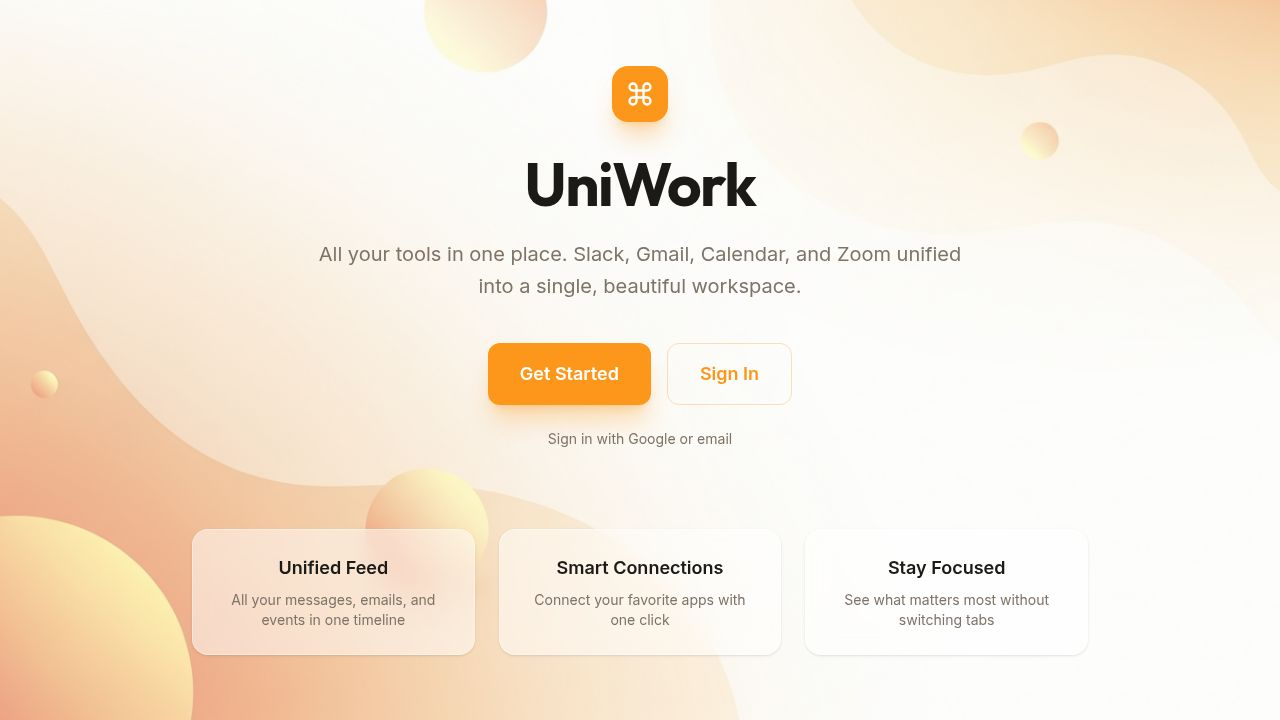
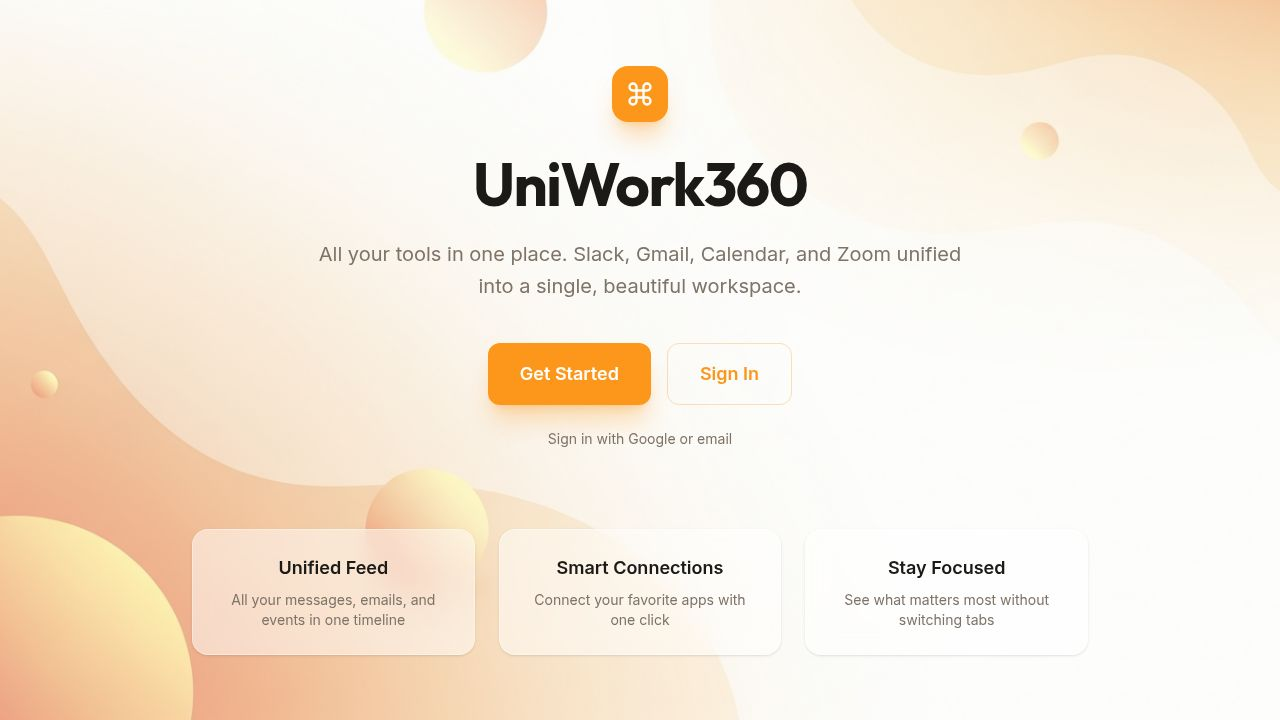
Update application name to UniWork360 and add email/Slack archiving feature
Rename application from UniWork to UniWork360 across client and documentation files. Add new PostgreSQL tables for archiving emails and Slack messages.

Replit-Commit-Author: Agent
Replit-Commit-Session-Id: 6fd7ff5d-99b1-4564-bddb-28053ccfea09
Replit-Commit-Checkpoint-Type: intermediate_checkpoint
Replit-Commit-Event-Id: 678924c1-f928-4d4b-99e3-ad5c29947d1a
Replit-Commit-Screenshot-Url: https://storage.googleapis.com/screenshot-production-us-central1/7e54089f-4964-4385-8b93-d112fce4aafd/6fd7ff5d-99b1-4564-bddb-28053ccfea09/BOdc3UP
Replit-Helium-Checkpoint-Created: true

Changed region(s): [[0.375, 0.2139, 0.6562, 0.3056]]

diff --git a/client/src/pages/settings.tsx b/client/src/pages/settings.tsx
@@ -717,7 +717,7 @@ export default function Settings() {
               (v) => handlePreferenceChange("notifyAsana", v),
               "toggle-notify-asana"
             )}
-            {renderToggle(MessageCircle, "UniWork Chat", "Direct messages from teammates", 
+            {renderToggle(MessageCircle, "UniWork360 Chat", "Direct messages from teammates", 
               preferences?.notifyChat ?? true, 
               (v) => handlePreferenceChange("notifyChat", v),
               "toggle-notify-chat"
@@ -728,7 +728,7 @@ export default function Settings() {
             <h3 className="text-lg font-semibold mb-2">Delivery Method</h3>
             <p className="text-sm text-muted-foreground mb-4">How do you want to receive notifications?</p>
             
-            {renderToggle(Bell, "In-App Notifications", "Show alerts within UniWork", 
+            {renderToggle(Bell, "In-App Notifications", "Show alerts within UniWork360", 
               preferences?.notifyInApp ?? true, 
               (v) => handlePreferenceChange("notifyInApp", v),
               "toggle-notify-inapp"
@@ -859,7 +859,7 @@ export default function Settings() {
                   </div>
                   <div>
                     <p className="font-medium text-foreground">Show Online Status</p>
-                    <p className="text-sm text-muted-foreground">Others can see when you're active in UniWork Chat</p>
+                    <p className="text-sm text-muted-foreground">Others can see when you're active in UniWork360 Chat</p>
                   </div>
                 </div>
                 <Switch
@@ -874,7 +874,7 @@ export default function Settings() {
             <div className="glass-card p-6 rounded-2xl">
               <h3 className="text-lg font-semibold mb-2">Connected Services</h3>
               <p className="text-sm text-muted-foreground mb-4">
-                Services you've connected to UniWork. You can manage connections on the Connect page.
+                Services you've connected to UniWork360. You can manage connections on the Connect page.
               </p>
               
               {connectedServices.length === 0 ? (
@@ -917,7 +917,7 @@ export default function Settings() {
 
             <div className="glass-card p-6 rounded-2xl">
               <h3 className="text-lg font-semibold mb-2">Your Data</h3>
-              <p className="text-sm text-muted-foreground mb-4">Download or delete your data from UniWork.</p>
+              <p className="text-sm text-muted-foreground mb-4">Download or delete your data from UniWork360.</p>
               
               <div className="space-y-3">
                 <Button 
@@ -987,7 +987,7 @@ export default function Settings() {
       {renderBackButton()}
       <div className="mb-8">
         <h2 className="font-display font-bold text-2xl mb-2">Appearance</h2>
-        <p className="text-muted-foreground">Customize how UniWork looks for you.</p>
+        <p className="text-muted-foreground">Customize how UniWork360 looks for you.</p>
       </div>
 
       {isLoading ? (
@@ -1070,7 +1070,7 @@ export default function Settings() {
             <div className="space-y-4">
               <div>
                 <Label className="text-sm font-medium">Timezone</Label>
-                <p className="text-sm text-muted-foreground mb-2">Used for displaying times throughout UniWork</p>
+                <p className="text-sm text-muted-foreground mb-2">Used for displaying times throughout UniWork360</p>
                 <Select
                   value={preferences?.timezone || "America/New_York"}
                   onValueChange={(v) => handlePreferenceChange("timezone", v)}
@@ -1135,7 +1135,7 @@ export default function Settings() {
     {
       id: "getting-started",
       title: "Getting Started",
-      content: `Welcome to UniWork! Here's how to get started:
+      content: `Welcome to UniWork360! Here's how to get started:
 
 1. **Connect Your Services** - Go to "Connect App" in the sidebar to link your Gmail, Google Calendar, Slack, Zoom, and other tools.
 
@@ -1143,17 +1143,17 @@ export default function Settings() {
 
 3. **Check Your Calendar** - The Calendar page combines events from Google Calendar, Apple Calendar, and Zoom meetings.
 
-4. **Chat with Teammates** - Use the built-in Chat feature to message other UniWork users directly.
+4. **Chat with Teammates** - Use the built-in Chat feature to message other UniWork360 users directly.
 
 5. **Customize Settings** - Visit Settings to personalize notifications, appearance, and more.`
     },
     {
       id: "connecting-services",
       title: "Connecting Services",
-      content: `UniWork integrates with the following services:
+      content: `UniWork360 integrates with the following services:
 
 **Gmail & Google Calendar**
-Click "Connect" next to Gmail or Google Calendar and sign in with your Google account. You'll be asked to grant UniWork permission to read your emails and calendar events.
+Click "Connect" next to Gmail or Google Calendar and sign in with your Google account. You'll be asked to grant UniWork360 permission to read your emails and calendar events.
 
 **Slack**
 Slack integration uses a shared workspace connection. Your admin configures the Slack bot token, and you can then view messages from channels you're part of.
@@ -1165,18 +1165,18 @@ Zoom meetings are automatically synced when your admin configures the Zoom integ
 To connect Apple Calendar, you'll need to create an app-specific password in your Apple ID settings. Go to appleid.apple.com, sign in, and generate an app-specific password under Security.
 
 **Asana**
-Connect Asana by providing your personal access token from the Asana developer console. This lets UniWork show your tasks and project updates.`
+Connect Asana by providing your personal access token from the Asana developer console. This lets UniWork360 show your tasks and project updates.`
     },
     {
       id: "notifications",
       title: "Managing Notifications",
-      content: `Control how UniWork alerts you about new activity:
+      content: `Control how UniWork360 alerts you about new activity:
 
 **Service Notifications**
 Toggle notifications on or off for each connected service (Gmail, Slack, Calendar, Zoom, Asana, Chat).
 
 **Delivery Methods**
-- In-App: See notifications within UniWork
+- In-App: See notifications within UniWork360
 - Email Digest: Get a daily summary email
 - Sound: Play a sound when new notifications arrive
 
@@ -1204,11 +1204,11 @@ Set times when you don't want to be disturbed. During quiet hours, all notificat
     },
     {
       id: "chat",
-      title: "UniWork Chat",
-      content: `Chat with other UniWork users in your organization:
+      title: "UniWork360 Chat",
+      content: `Chat with other UniWork360 users in your organization:
 
 **Starting a Conversation**
-Click the "+" button to start a new chat with any UniWork user.
+Click the "+" button to start a new chat with any UniWork360 user.
 
 **Messaging**
 Type your message and press Enter or click Send. Messages are delivered instantly.
@@ -1245,7 +1245,7 @@ Your online status can be toggled in Privacy settings. When hidden, others won't
       {renderBackButton()}
       <div className="mb-8">
         <h2 className="font-display font-bold text-2xl mb-2">Help & Support</h2>
-        <p className="text-muted-foreground">Learn how to use UniWork effectively.</p>
+        <p className="text-muted-foreground">Learn how to use UniWork360 effectively.</p>
       </div>
 
       <div className="space-y-4">
@@ -1295,9 +1295,9 @@ Your online status can be toggled in Privacy settings. When hidden, others won't
         </div>
 
         <div className="glass-card p-6 rounded-2xl">
-          <h3 className="text-lg font-semibold mb-2">About UniWork</h3>
+          <h3 className="text-lg font-semibold mb-2">About UniWork360</h3>
           <p className="text-muted-foreground">
-            UniWork brings all your work tools together in one unified dashboard. View emails, calendar events, chat messages, and tasks from Gmail, Google Calendar, Slack, Zoom, Apple Calendar, Asana, and more — all in one place.
+            UniWork360 brings all your work tools together in one unified dashboard. View emails, calendar events, chat messages, and tasks from Gmail, Google Calendar, Slack, Zoom, Apple Calendar, Asana, and more — all in one place.
           </p>
           <p className="text-sm text-muted-foreground mt-4">Version 1.0.0</p>
         </div>

diff --git a/shared/schema.ts b/shared/schema.ts
@@ -946,3 +946,45 @@ export const webhookDeliveries = pgTable("webhook_deliveries", {
 
 export type WebhookDelivery = typeof webhookDeliveries.$inferSelect;
 export type InsertWebhookDelivery = typeof webhookDeliveries.$inferInsert;
+
+// =============================================================================
+// ARCHIVED ITEMS
+// =============================================================================
+
+export const archivedEmails = pgTable("archived_emails", {
+  id: serial("id").primaryKey(),
+  userId: varchar("user_id").notNull().references(() => users.id, { onDelete: "cascade" }),
+  emailId: varchar("email_id").notNull(),
+  threadId: varchar("thread_id"),
+  subject: varchar("subject"),
+  from: varchar("from_address"),
+  snippet: text("snippet"),
+  date: varchar("date"),
+  isUnread: boolean("is_unread").default(false),
+  archivedAt: timestamp("archived_at").defaultNow(),
+}, (table) => [
+  index("idx_archived_email_user").on(table.userId),
+  index("idx_archived_email_id").on(table.emailId),
+]);
+
+export type ArchivedEmail = typeof archivedEmails.$inferSelect;
+export type InsertArchivedEmail = typeof archivedEmails.$inferInsert;
+
+export const archivedSlackMessages = pgTable("archived_slack_messages", {
+  id: serial("id").primaryKey(),
+  userId: varchar("user_id").notNull().references(() => users.id, { onDelete: "cascade" }),
+  messageId: varchar("message_id").notNull(),
+  channelId: varchar("channel_id"),
+  channelName: varchar("channel_name"),
+  text: text("text"),
+  userName: varchar("user_name"),
+  timestamp: varchar("timestamp"),
+  isDm: boolean("is_dm").default(false),
+  archivedAt: timestamp("archived_at").defaultNow(),
+}, (table) => [
+  index("idx_archived_slack_user").on(table.userId),
+  index("idx_archived_slack_message_id").on(table.messageId),
+]);
+
+export type ArchivedSlackMessage = typeof archivedSlackMessages.$inferSelect;
+export type InsertArchivedSlackMessage = typeof archivedSlackMessages.$inferInsert;

diff --git a/client/src/pages/reset-password.tsx b/client/src/pages/reset-password.tsx
@@ -90,7 +90,7 @@ export default function ResetPassword() {
                   <div className="w-12 h-12 rounded-2xl bg-primary flex items-center justify-center text-white shadow-xl shadow-primary/30">
                     <Command className="w-6 h-6" />
                   </div>
-                  <span className="font-display font-bold text-3xl">UniWork</span>
+                  <span className="font-display font-bold text-3xl">UniWork360</span>
                 </div>
               </Link>
             </div>
@@ -134,7 +134,7 @@ export default function ResetPassword() {
                 <div className="w-12 h-12 rounded-2xl bg-primary flex items-center justify-center text-white shadow-xl shadow-primary/30">
                   <Command className="w-6 h-6" />
                 </div>
-                <span className="font-display font-bold text-3xl">UniWork</span>
+                <span className="font-display font-bold text-3xl">UniWork360</span>
               </div>
             </Link>
           </div>

diff --git a/client/index.html b/client/index.html
@@ -4,13 +4,13 @@
     <meta charset="UTF-8" />
     <meta name="viewport" content="width=device-width, initial-scale=1.0, maximum-scale=1" />
 
-    <meta property="og:title" content="UniWork" />
+    <meta property="og:title" content="UniWork360" />
     <meta property="og:description" content="All your productivity tools in one place. Slack, Gmail, Calendar, and Zoom integrated." />
     <meta property="og:type" content="website" />
     <meta property="og:image" content="https://replit.com/public/images/opengraph.png" />
     <meta name="twitter:card" content="summary_large_image" />
     <meta name="twitter:site" content="@replit" />
-    <meta name="twitter:title" content="UniWork" />
+    <meta name="twitter:title" content="UniWork360" />
     <meta name="twitter:description" content="All your productivity tools in one place. Slack, Gmail, Calendar, and Zoom integrated." />
     <meta name="twitter:image" content="https://replit.com/public/images/opengraph.png" />
 

diff --git a/client/src/pages/setup-guide.tsx b/client/src/pages/setup-guide.tsx
@@ -96,7 +96,7 @@ export default function SetupGuide() {
     {
       id: "gmail",
       title: "Connect Gmail",
-      description: "View and manage your emails directly from UniWork. Send, reply, and organize your inbox without switching apps.",
+      description: "View and manage your emails directly from UniWork360. Send, reply, and organize your inbox without switching apps.",
       icon: Mail,
       connected: serviceStatus.gmail,
       href: "/connect",
@@ -183,7 +183,7 @@ export default function SetupGuide() {
         <div className="flex-1 p-8 max-w-4xl mx-auto w-full">
           <header className="mb-8">
             <h1 className="font-display font-bold text-3xl mb-2" data-testid="text-setup-title">
-              Welcome to UniWork!
+              Welcome to UniWork360!
             </h1>
             <p className="text-muted-foreground text-lg">
               Let's get your workspace set up. Follow these steps to connect your favorite tools.

diff --git a/client/src/pages/register.tsx b/client/src/pages/register.tsx
@@ -58,7 +58,7 @@ export default function Register() {
       await queryClient.invalidateQueries({ queryKey: ["/api/auth/user"] });
       toast({
         title: "Account created",
-        description: "Welcome to UniWork!",
+        description: "Welcome to UniWork360!",
       });
       setLocation("/dashboard");
     } catch (error: any) {
@@ -91,7 +91,7 @@ export default function Register() {
                 <div className="w-12 h-12 rounded-2xl bg-primary flex items-center justify-center text-white shadow-xl shadow-primary/30">
                   <Command className="w-6 h-6" />
                 </div>
-                <span className="font-display font-bold text-3xl">UniWork</span>
+                <span className="font-display font-bold text-3xl">UniWork360</span>
               </div>
             </Link>
           </div>

diff --git a/client/src/pages/forgot-password.tsx b/client/src/pages/forgot-password.tsx
@@ -61,7 +61,7 @@ export default function ForgotPassword() {
                 <div className="w-12 h-12 rounded-2xl bg-primary flex items-center justify-center text-white shadow-xl shadow-primary/30">
                   <Command className="w-6 h-6" />
                 </div>
-                <span className="font-display font-bold text-3xl">UniWork</span>
+                <span className="font-display font-bold text-3xl">UniWork360</span>
               </div>
             </Link>
           </div>

diff --git a/client/src/pages/login.tsx b/client/src/pages/login.tsx
@@ -65,7 +65,7 @@ export default function Login() {
                 <div className="w-12 h-12 rounded-2xl bg-primary flex items-center justify-center text-white shadow-xl shadow-primary/30">
                   <Command className="w-6 h-6" />
                 </div>
-                <span className="font-display font-bold text-3xl">UniWork</span>
+                <span className="font-display font-bold text-3xl">UniWork360</span>
               </div>
             </Link>
           </div>

diff --git a/client/src/components/apple-calendar-connect.tsx b/client/src/components/apple-calendar-connect.tsx
@@ -230,7 +230,7 @@ function ConnectForm({
           <li>Go to <a href="https://appleid.apple.com" target="_blank" rel="noopener noreferrer" className="underline">appleid.apple.com</a></li>
           <li>Sign in and go to Security</li>
           <li>Click "App-Specific Passwords"</li>
-          <li>Generate a new password for "UniWork"</li>
+          <li>Generate a new password for "UniWork360"</li>
         </ol>
       </div>
 

diff --git a/client/src/pages/landing.tsx b/client/src/pages/landing.tsx
@@ -23,7 +23,7 @@ export default function Landing() {
           </div>
           
           <h1 className="font-display font-bold text-5xl md:text-6xl mb-6 tracking-tight">
-            UniWork
+            UniWork360
           </h1>
           
           <p className="text-xl text-muted-foreground mb-10 leading-relaxed">

diff --git a/client/src/components/unified-sidebar.tsx b/client/src/components/unified-sidebar.tsx
@@ -76,7 +76,7 @@ export function UnifiedSidebar() {
             <Command className="w-4 h-4" />
           </div>
           <span className="font-display font-bold text-xl tracking-tight text-foreground">
-            UniWork
+            UniWork360
           </span>
         </div>
 

diff --git a/replit.md b/replit.md
@@ -1,8 +1,8 @@
-# UniWork - Unified Workspace Application
+# UniWork360 - Unified Workspace Application
 
 ## Overview
 
-UniWork is a unified workspace application that integrates multiple productivity tools (Slack, Gmail, Google Calendar, Zoom) into a single, cohesive interface. The application provides a dashboard with a unified feed of activities, service connection management, and an admin panel for managing users, services, and feed items.
+UniWork360 is a unified workspace application that integrates multiple productivity tools (Slack, Gmail, Google Calendar, Zoom) into a single, cohesive interface. The application provides a dashboard with a unified feed of activities, service connection management, and an admin panel for managing users, services, and feed items.
 
 The app uses a glassmorphism UI design with a modern React frontend and an Express.js backend, backed by PostgreSQL for data persistence.
 
